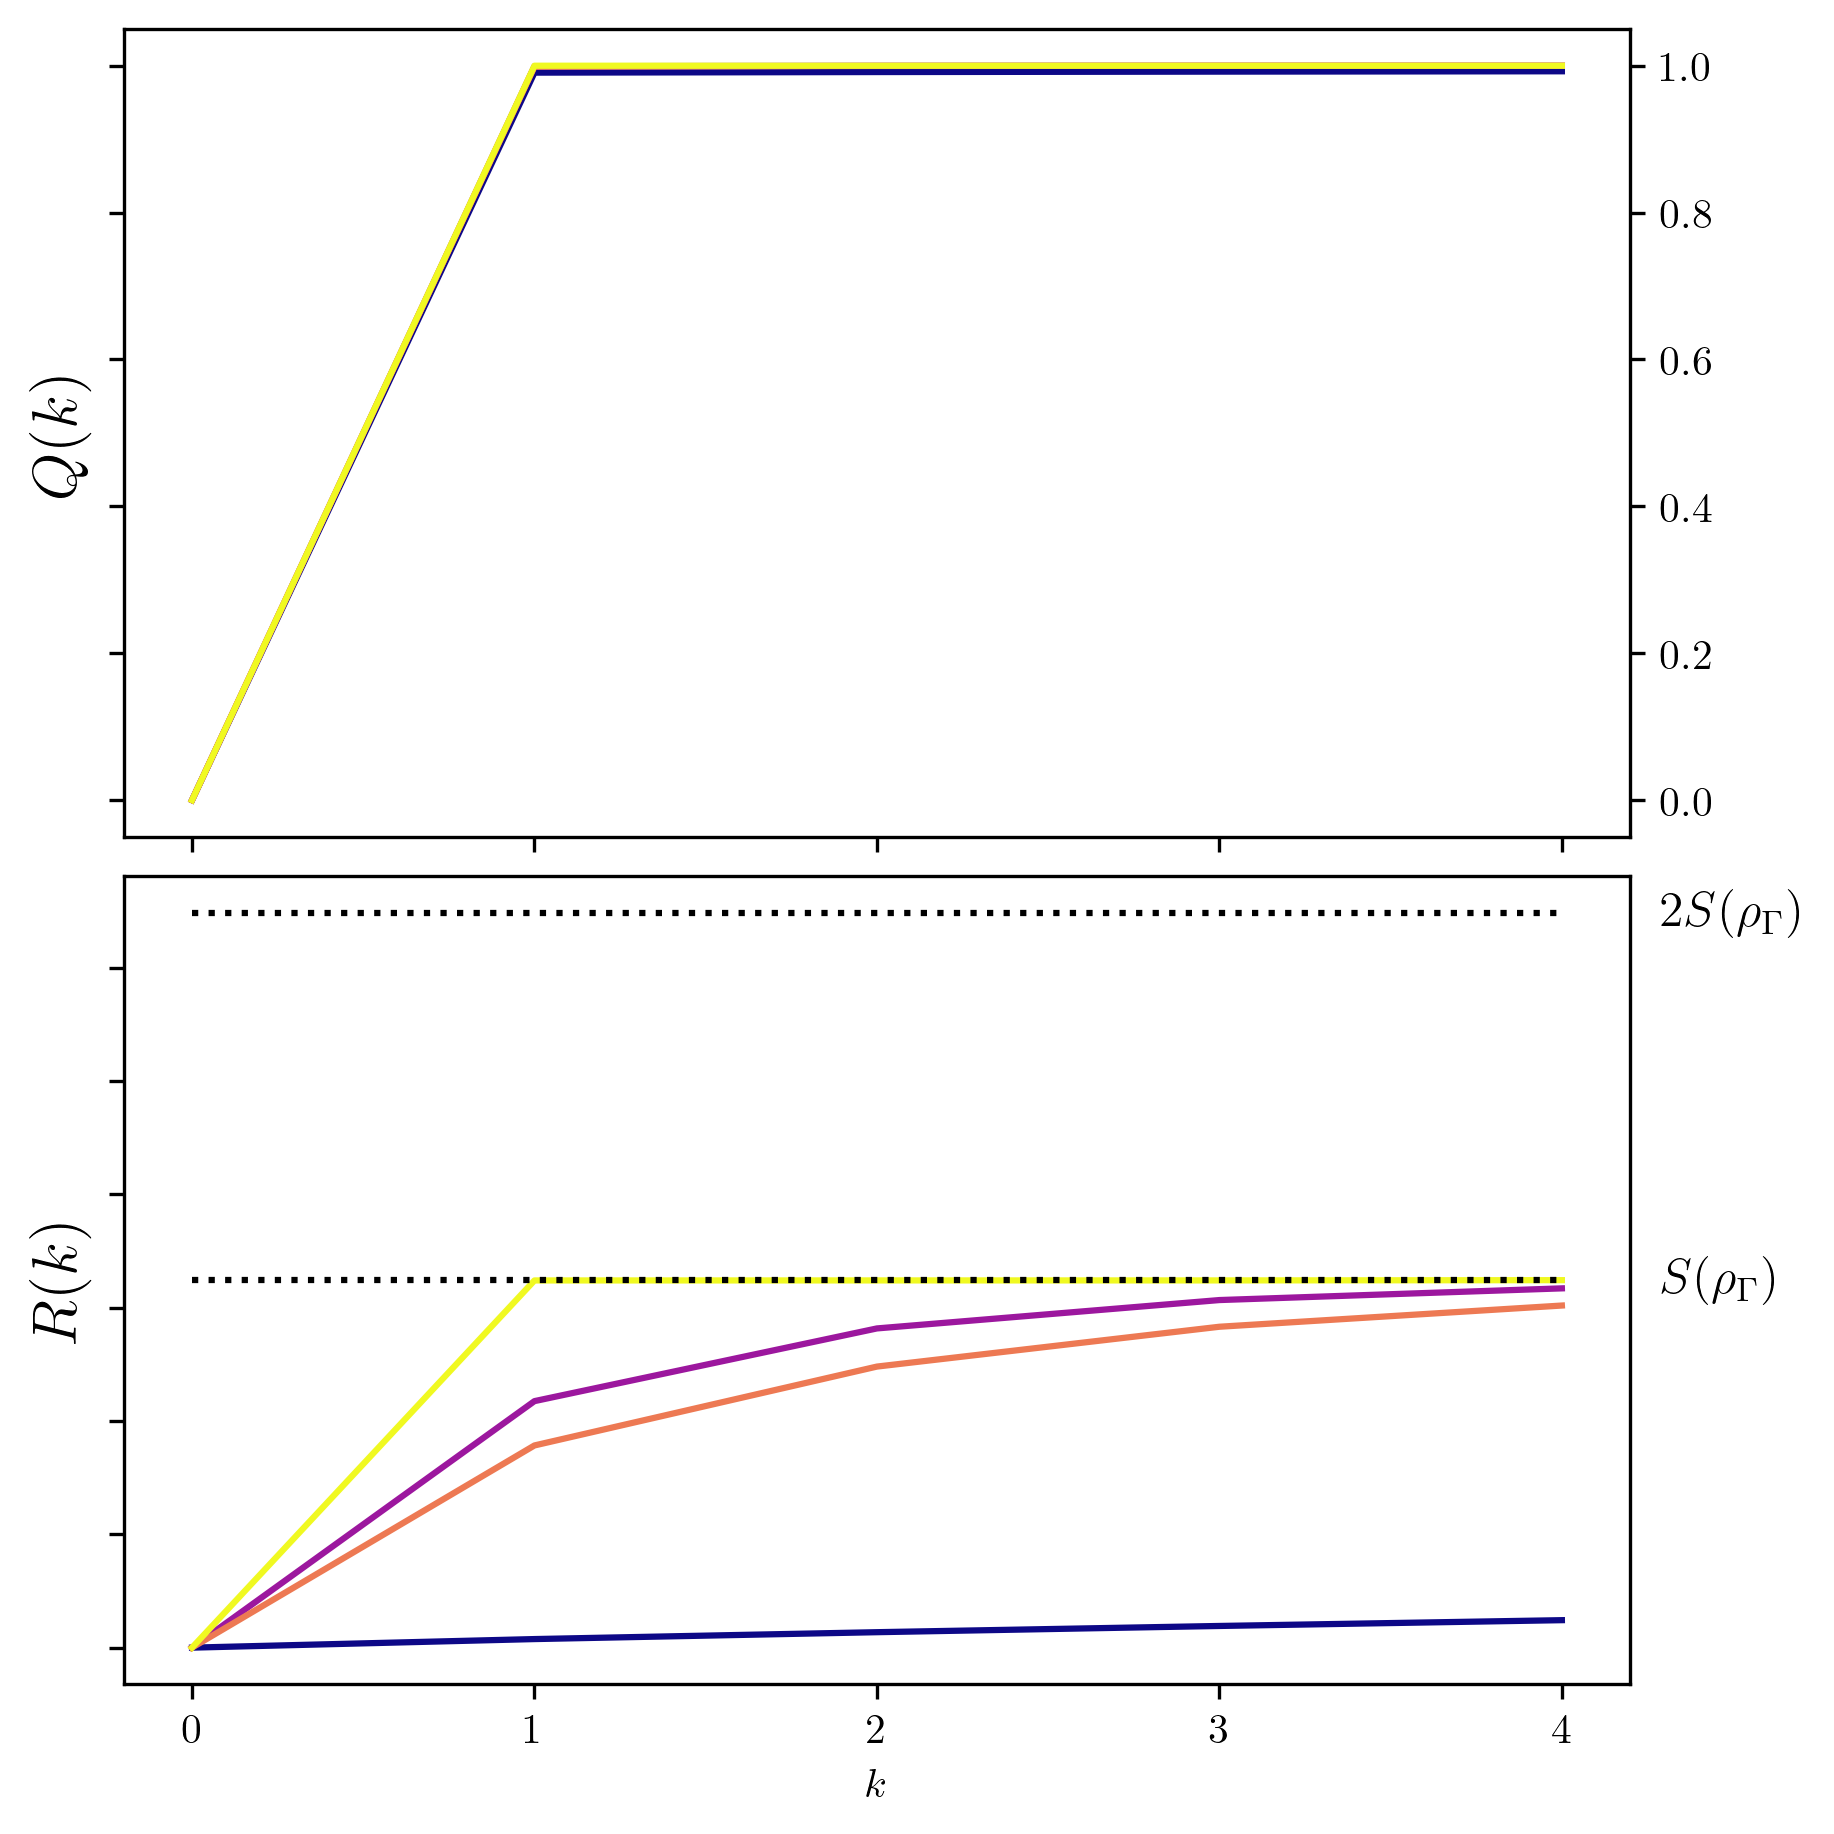
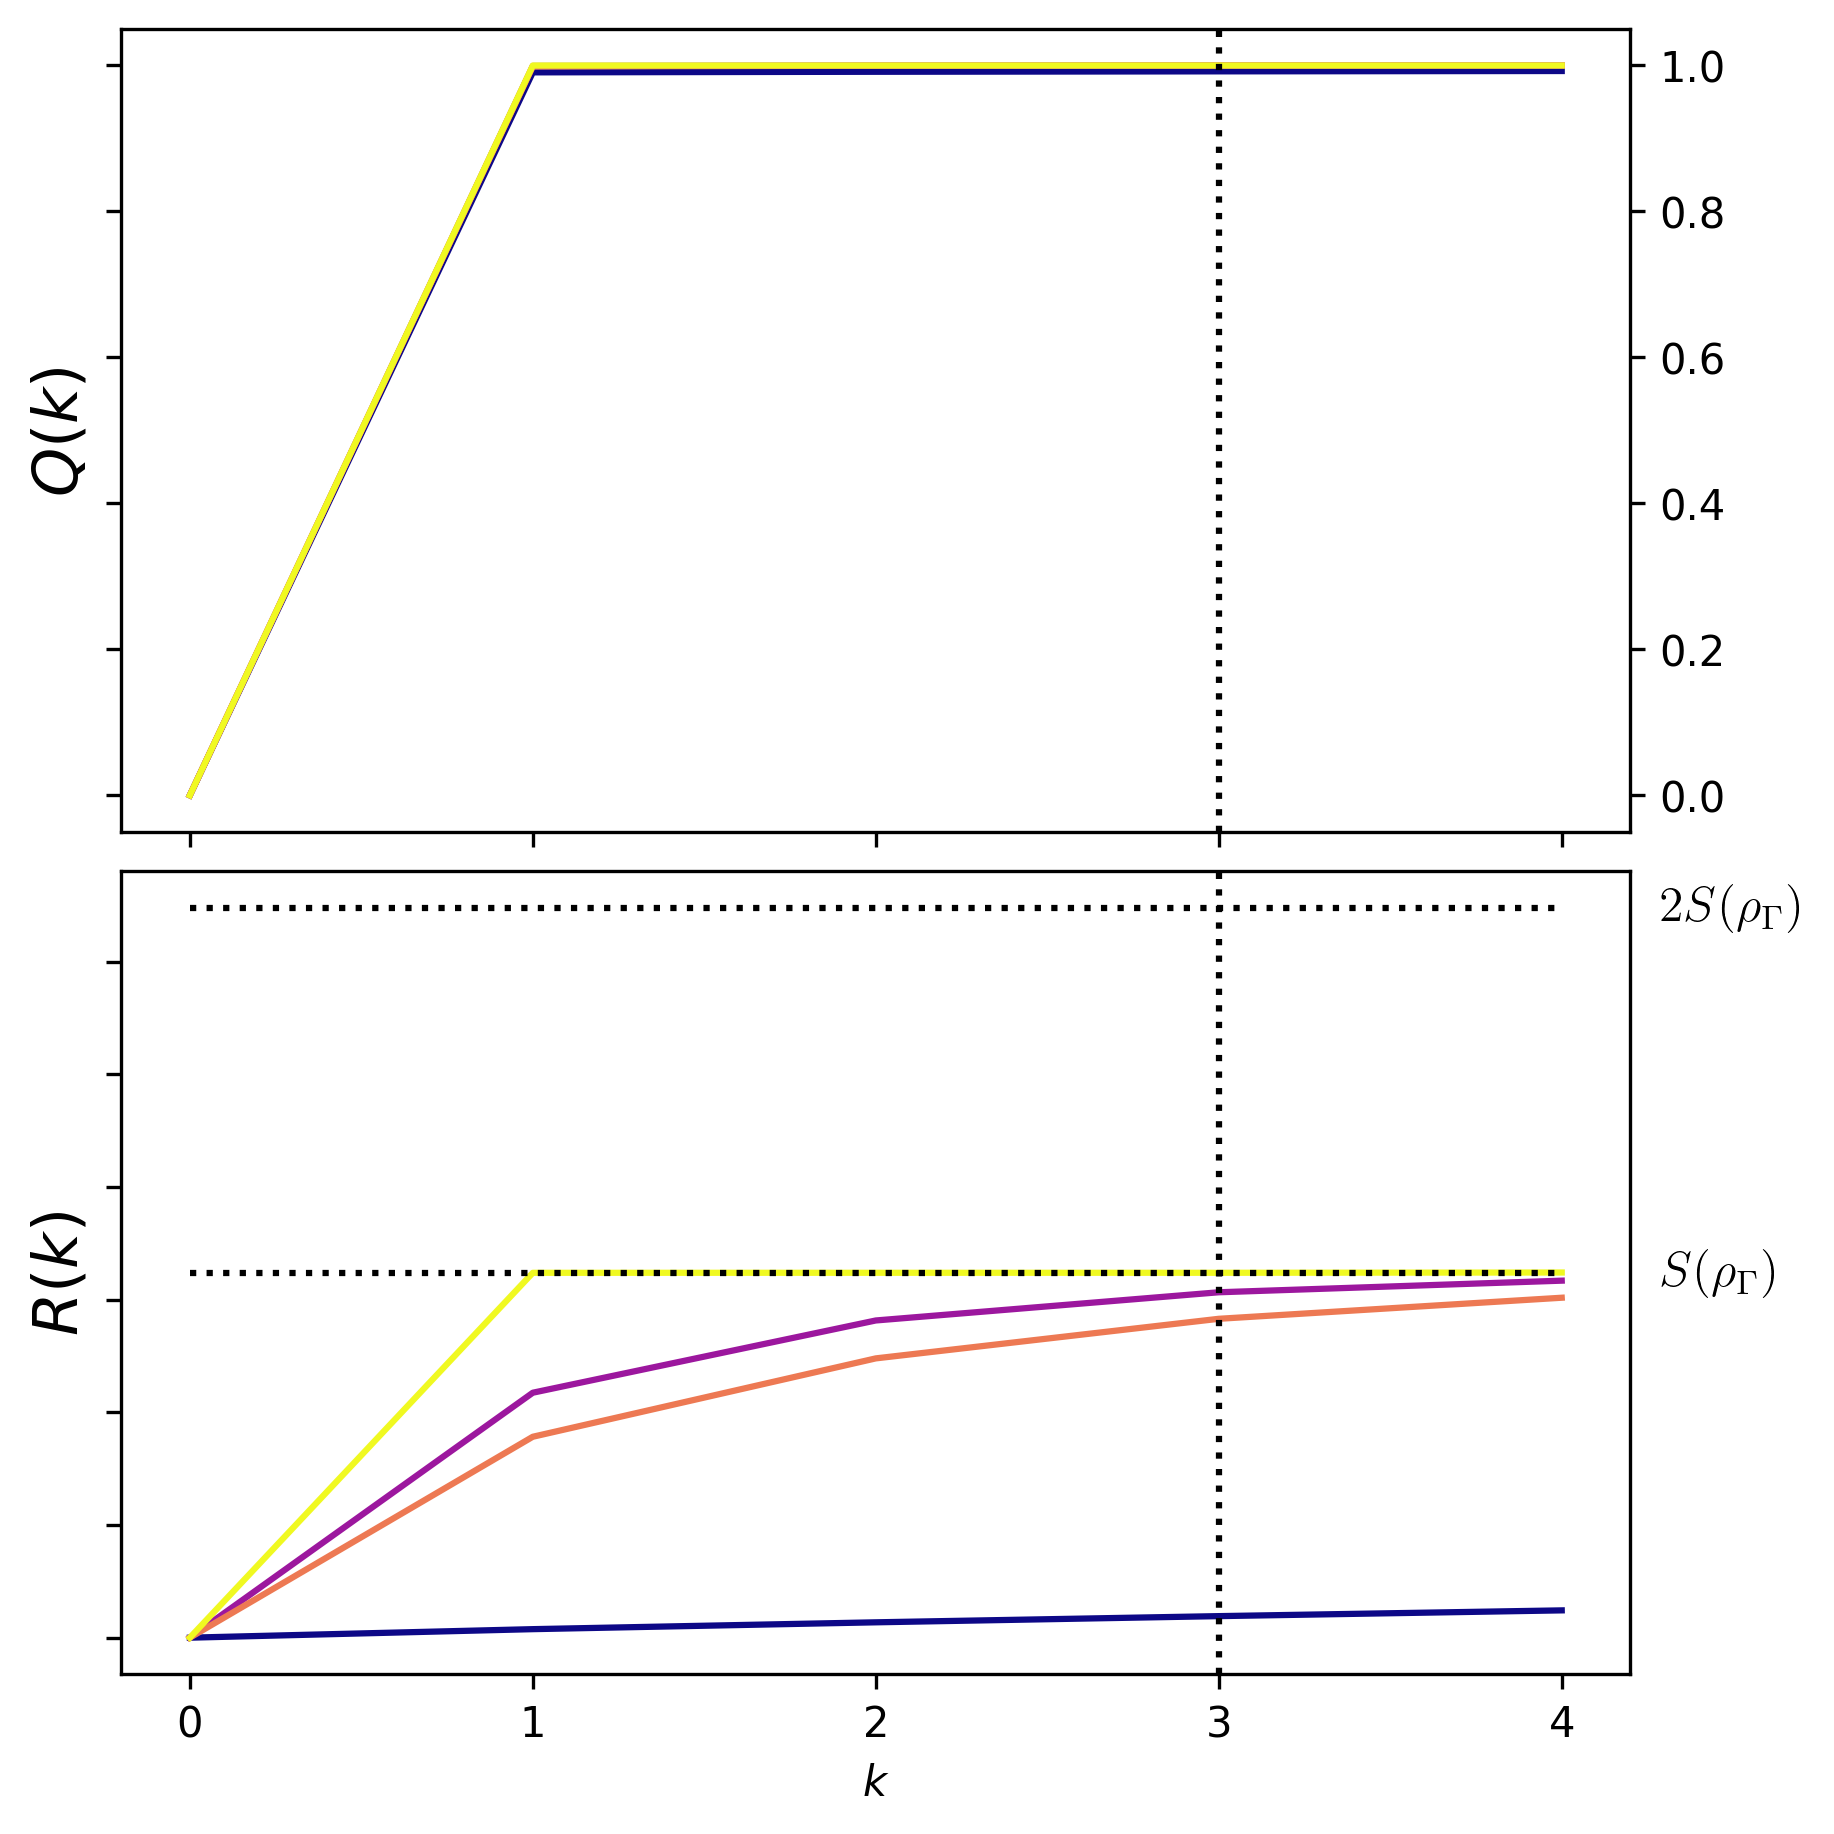
Correct small mistakes in utilities, more work in progress for plots.

diff --git a/src/utility_functions.py b/src/utility_functions.py
@@ -320,7 +320,7 @@ def xi_unitaries(r, g_l, t, xi_obs, gamma_obs):
     omega_r = gamma_obs.full()[r,r]
 
     # create term operator to exponate and unitary
-    exp = -1j * omega_r * t * g_l * xi_obs * t
+    exp = -1j * omega_r * t * g_l * xi_obs
     U = exp.expm()
 
     # return unitary